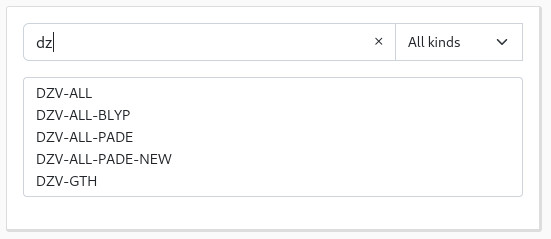
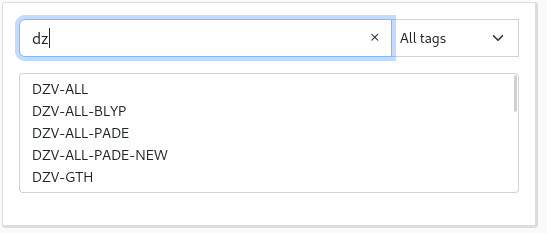
kind → tags (documentation)

Changed region(s): [[0.0, 0.0, 0.9945, 0.9914], [0.9013, 0.1502, 0.9324, 0.1803]]

diff --git a/cp2k_basis_webservice/templates/index.html b/cp2k_basis_webservice/templates/index.html
@@ -179,7 +179,7 @@
     <script type="module">
         import {
             Controller
-        } from "{{ url_for('static', filename='scripts.js') }}";
+        } from "{{ url_for('static', filename='scripts.min.js') }}";
 
         let controller = new Controller({
             'basis_sets': {

diff --git a/cp2k_basis_webservice/assets/style.less b/cp2k_basis_webservice/assets/style.less
@@ -28,7 +28,7 @@ main {
     }
 }
 
-#basisSetKindSelect, #pseudoKindSelect {
+#basisSetTagSelect, #pseudoTagSelect {
     max-width: 128px;
 }
 

diff --git a/docs/users/api.md b/docs/users/api.md
@@ -54,11 +54,11 @@ There is no option.
 
 Output:
 
-| Field                     | Type       | Description                                                                                                                                                                                                                  |
-|---------------------------|------------|------------------------------------------------------------------------------------------------------------------------------------------------------------------------------------------------------------------------------|
-| `query.type`              | string     | Always `ALL`                                                                                                                                                                                                                 |
-| `result.basis_sets`       | dictionary | Contains three fields: `build_date`, which give the date at which the library was built, `elements`, which lists elements available for a given basis set, and `kinds`, which lists the kind for each basis set.             |
-| `result.pseudopotentials` | dictionary | Contains three fields: `build_date`, which give the date at which the library was built, `elements`, which lists elements available for a given pseudopotential, and `kinds`, which lists the kind for each pseudopotential. |
+| Field                     | Type       | Description                                                                                                                                                                                                                 |
+|---------------------------|------------|-----------------------------------------------------------------------------------------------------------------------------------------------------------------------------------------------------------------------------|
+| `query.type`              | string     | Always `ALL`                                                                                                                                                                                                                |
+| `result.basis_sets`       | dictionary | Contains three fields: `build_date`, which give the date at which the library was built, `elements`, which lists elements available for a given basis set, and `tags`, which lists the tags for each basis set.             |
+| `result.pseudopotentials` | dictionary | Contains three fields: `build_date`, which give the date at which the library was built, `elements`, which lists elements available for a given pseudopotential, and `tags`, which lists the tags for each pseudopotential. |
 
 
 [Example](https://cp2k-basis.pierrebeaujean.net/api/data):
@@ -83,7 +83,7 @@ curl https://cp2k-basis.pierrebeaujean.net/api/data
         ],
         (...)
       },
-      "kinds": {
+      "tags": {
         "DZVP-MOLOPT-GTH": [
           "molopt",
           "gth"
@@ -100,7 +100,7 @@ curl https://cp2k-basis.pierrebeaujean.net/api/data
           (...)
         ]
       },
-      "kinds": {
+      "tags": {
           (...)
       }
     }
@@ -118,11 +118,11 @@ Options:
 |------------|----------|---------------------------------------------------------------------------------------------------|
 | `elements` | String   | Restrict the output to a subset of elements.                                                      |
 | `bs_name`  | String   | Restrict the output to a subset of basis sets containing the given name (case insensitive).       |
-| `bs_kind`  | String   | Restrict the output to a subset of basis sets having the given kind.                              |
+| `bs_tag`  | String   | Restrict the output to a subset of basis sets having the given tag.                              |
 | `pp_name`  | String   | Restrict the output to a subset of pseudopotentials containing the given name (case insensitive). |
-| `pp_kind`  | String   | Restrict the output to a subset of pseudopotentials having the given kind.                        |
+| `pp_tag`  | String   | Restrict the output to a subset of pseudopotentials having the given tag.                        |
 
-Available kinds are listed [there](webserver.md#if-you-already-know-the-method).
+Available tags are listed [there](webserver.md#if-you-already-know-the-method).
 
 Output:
 
@@ -133,10 +133,10 @@ Output:
 | `result.basis_sets`       | list of string | List of basis set names available           |
 | `result.pseudopotentials` | list of string | List of pseudopotential names available     |
 
-[Example](https://cp2k-basis.pierrebeaujean.net/api/names?elements=Ti):
+[Example](https://cp2k-basis.pierrebeaujean.net/api/names?elements=Ti&pp_name=PBE&bs_tag=SR):
 
 ```bash
-curl 'https://cp2k-basis.pierrebeaujean.net/api/names?elements=Ti&pp_name=PBE&bs_kind=SR'
+curl 'https://cp2k-basis.pierrebeaujean.net/api/names?elements=Ti&pp_name=PBE&bs_tag=SR'
 ```
 
 ```json
@@ -208,7 +208,7 @@ curl https://cp2k-basis.pierrebeaujean.net/api/basis/SZV-MOLOPT-SR-GTH/data?elem
     ],
     "metadata": {
       "description": "A single zeta valence MOLOPT basis set, for solids (short-range) and GTH pseudopotentials",
-      "kind": [
+      "tags": [
         "MOLOPT",
         "SR",
         "GTH"
@@ -242,7 +242,7 @@ Output:
 | `result.elements`    | list of string | Elements for which the basis set/pseudopotential are defined |
 | `result.description` | string         | Small description.                                           |
 | `result.references`  | list of string | List of URL to articles or repositories                      |
-| `result.kind`        | list of string | Kind of the basis set/pseudopotential                        |
+| `result.tags`        | list of string | Kind of the basis set/pseudopotential                        |
 
 [Example](https://cp2k-basis.pierrebeaujean.net/api/pseudopotentials/GTH-BLYP/metadata):
 
@@ -263,7 +263,7 @@ curl https://cp2k-basis.pierrebeaujean.net/api/pseudopotentials/GTH-BLYP/metadat
       "Al",
       (...)
     ],
-    "kind": [
+    "tags": [
       "GTH"
     ],
     "references": [

diff --git a/docs/developers/library_build.md b/docs/developers/library_build.md
@@ -195,10 +195,10 @@ The if there is a match, then all the values are attributed as metadata.
     For the basis set `SZV-MOLOPT-GTH`, the metadata will contain two fields: `references` and `description` (which will contain "A double zeta basis set")
     For the basis set `DZVP-MOLOPT-GTH` (or any other basis, thanks to the use of `.*`), the fields in the metadata will be the same, but the value of `description` is different ("MOLOPT basis set.").
 
-For the moment, `references`, `description` and `kind` are the three metadata that should be reported for every basis set and pseudopotential.
+For the moment, `references`, `description` and `tags` are the three metadata that should be reported for every basis set and pseudopotential.
 
 !!! note
-    In practice, the YAML format defines [anchors and aliases](https://yaml.org/spec/1.2.2/#3222-anchors-and-aliases), which allow to define references and kinds once and use them multiple time.
+    In practice, the YAML format defines [anchors and aliases](https://yaml.org/spec/1.2.2/#3222-anchors-and-aliases), which allow to define references and tags once and use them multiple time.
 
 ## Using the library
 
@@ -335,7 +335,7 @@ Now you just need to add the metadata and iterate on the result until you are ha
       '^TZVP-MOLOPT-SR-GTH$':
         references: [ https://github.com/cp2k/cp2k-data ]
         description: Short-range triple zeta (+ polarization) basis set.
-        kind: [MOLOPT, SR, GTH]
+        tags: [MOLOPT, SR, GTH]
     ```
     
     Metadata were added to the basis sets:
@@ -347,7 +347,7 @@ Now you just need to add the metadata and iterate on the result until you are ha
     +- basis_sets
        |
        +- TZVP-MOLOPT-SR-GTH
-       |  metadata={'references': ['https://github.com/cp2k/cp2k-data'], 'description': 'Short-range triple zeta (+ polarization) basis set.', 'kind': ['MOLOPT', 'SR', 'GTH']}
+       |  metadata={'references': ['https://github.com/cp2k/cp2k-data'], 'description': 'Short-range triple zeta (+ polarization) basis set.',  'tags': ['MOLOPT', 'SR', 'GTH']}
        |  |
        |  +- Li: q3
        |  +- Be: q4

diff --git a/docs/users/webserver.md b/docs/users/webserver.md
@@ -55,15 +55,15 @@ You can use the search bar in the top of each list to quickly access the basis s
 
 ![](../images/webserver_search.jpg)
 
-It is also possible to sort the basis set per *kind*, with the dropdown on the right.
-The following kinds are available:
+It is also possible to sort the basis set per *tag*, with the dropdown on the right.
+The following tags are available:
 
-| Kind      | Description                                                    |
-|-----------|----------------------------------------------------------------|
-| `GTH`     | GTH basis sets or pseudopotential. Opposite of `ALL`           |
-| `ALL`     | All-electron basis set or (pseudo)potential. Opposite of `GTH` |
-| `MOLOPT`  | MOLOPT basis sets                                              |
- | `SR`      | Short-range/confined basis sets, better for solids             |
+| Tag      | Description                                                    |
+|----------|----------------------------------------------------------------|
+| `GTH`    | GTH basis sets or pseudopotential. Opposite of `ALL`           |
+| `ALL`    | All-electron basis set or (pseudo)potential. Opposite of `GTH` |
+| `MOLOPT` | MOLOPT basis sets                                              |
+ | `SR`     | Short-range/confined basis sets, better for solids             |
 
 In the periodic table below, the **red borders indicate that the basis set is available** for these atoms, while the **blue borders indicates that the pseudopotential is available**:
 

diff --git a/docs/users/basis_sets_and_pseudos.md b/docs/users/basis_sets_and_pseudos.md
@@ -1,9 +1,5 @@
 # On basis sets and GTH pseudopotentials in CP2K
 
-!!! info
-    For the latest CP2K review, see [10.1063/5.0007045](https://dx.doi.org/10.1063/5.0007045) (May 2020).
-    The GPW method is described, e.g., [here](https://www.cp2k.org/_media/events:2019_ghent:gpw.pdf).
-
 ## Basis sets
 
 Solving the Schrödinger equation generally resort to the use of the LCAO (*linear combination of atomic orbitals*) approximation.
@@ -51,6 +47,10 @@ Thus, the number of basis function for a given atom is very different from one b
 However, for reasons that will become clear in the next section, CP2K does not only use all-electron basis sets.
 
 ## GTH pseudopotentials
+
+!!! info
+    For the latest CP2K review, see [10.1063/5.0007045](https://dx.doi.org/10.1063/5.0007045) (May 2020).
+    The GPW method is described, e.g., [here](https://www.cp2k.org/_media/events:2019_ghent:gpw.pdf).
 
 Indeed, CP2K is able use an auxiliary plane wave (PW) basis set to perform its calculation with the GPW (and GAPW) method.
 To perform a such calculation, one needs to include all possible PW below a given threshold. 

diff --git a/docs/developers/library_file_format.md b/docs/developers/library_file_format.md
@@ -144,7 +144,7 @@ Each `basis set` and `pp familly` group might also have the following attributes
 |---------------|---------|---------------------------------------------------------------------|
 | `description` | `str`   | Description of the data                                             |
 | `references`  | `array` | One-dimensional array of URLs to reference papers (DOI) or sources. |
-| `kind`        | `array` | One-dimensional array of kinds                                      |
+| `tags`        | `array` | One-dimensional array of tags                                       |
 
 Each `atomic bs variant` and `atomic pp variant` may present a `source` attribute which indicate the URL to the source of this variant.
 
